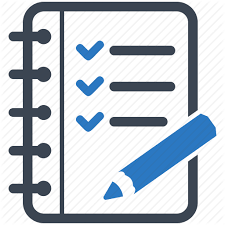
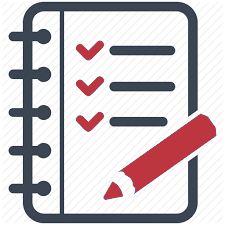
modify color in tailwind

diff --git a/src/style/index.css b/src/style/index.css
@@ -10,10 +10,11 @@
   --green: #179f4c;
   --black : #000000;
   --white : #ffffff;
-  --primary-color : #1e293b;
-  --second-color  : #1d4ed8;
+  --primary-color : #385a64;
+  --second-color  : #bc353f;
   --third-color   : #d1d5db;
   --forth-color : #6d7075;
+   
 }
 
 #holder{
@@ -81,3 +82,19 @@
  .modal{
   background-color: rgba(0,0,0,0.75);
  }
+
+ .bounce {
+  display: inline-block;
+  vertical-align: middle;
+  -webkit-transform: perspective(1px) translateZ(0);
+  transform: perspective(1px) translateZ(0);
+  box-shadow: 0 0 1px rgba(0, 0, 0, 0);
+  -webkit-transition-duration: 0.5s;
+  transition-duration: 0.5s;
+}
+.bounce:hover, .bounce:focus, .bounce:active {
+  -webkit-transform: scale(0.8);
+  transform: scale(1.3);
+  -webkit-transition-timing-function: cubic-bezier(0.47, 2.02, 0.31, -0.36);
+  transition-timing-function: cubic-bezier(0.47, 2.02, 0.31, -0.36);
+}

diff --git a/tailwind.config.js b/tailwind.config.js
@@ -20,7 +20,9 @@ module.exports = {
         "primary-color" : 'var(--primary-color)',
         "second-color"  : 'var(--second-color)',
         "third-color"   : 'var(--third-color)',
-        "forth-color": 'var(--forth-color)'
+        "forth-color": 'var(--forth-color)',
+        "fivth-color": 'var(--fivth-color)',
+        "sixth-color": 'var(--sixth-color)'
       },
     },
   },
